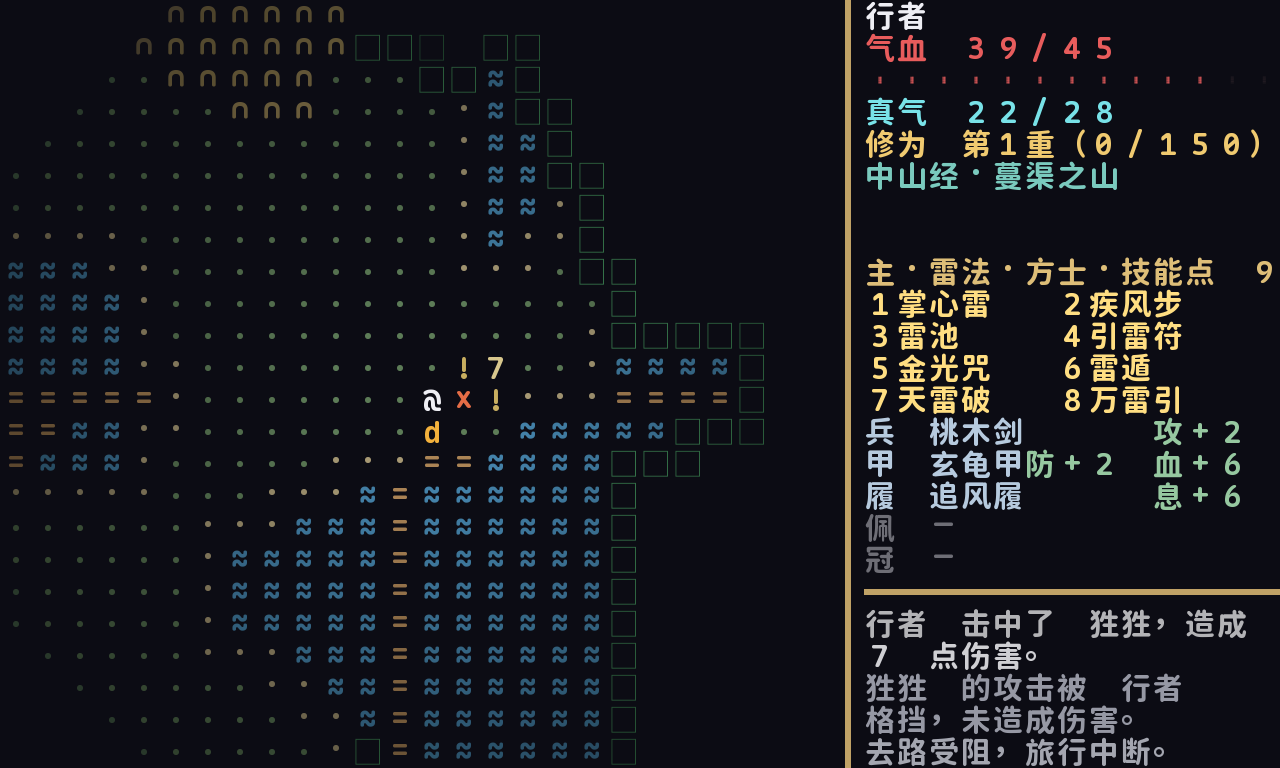
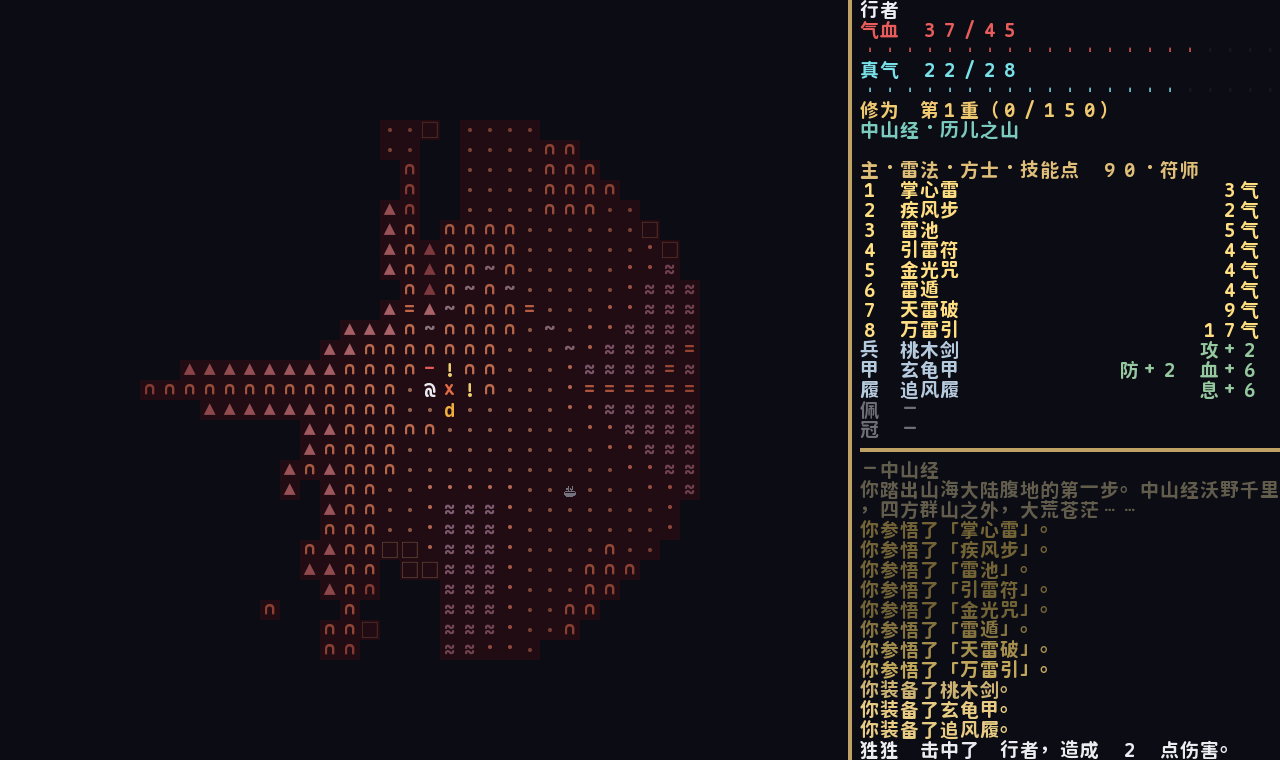
字号体系重构：统一小字多格（20/16/12px），信息栏容量大增
- 需求：信息栏字号小一些。PUA 同格小字形方案被否（tcod print 静默丢弃
  超 BMP 映射码点，中文映射后消失），按用户决策全局统一小字号
- MAP_PRESETS 32/24/18 → 20/16/12px；SIDEBAR 14/18/22 → 22/28/38 列
- 大档（默认）：地图视口 26×24 → 42×38；信息栏内容列 13→21（+62%）、
  日志 5→15 行；信息栏物理宽基本不变（448→440px）
- 紧凑档技能两列布局自然退役（三档行数均 >26 走完整档）
- 测试：布局断言更新，硬编码 console 尺寸/列区间动态化，163 全绿；
  截图 AI 视觉复核：统一 20px、信息栏四段完整
- 回滚 PUA 小字形全部改动（font_fallback/render/message_log/测试）

diff --git a/render.py b/render.py
@@ -214,6 +214,11 @@ def _skill_state_color(engine, skill: dict) -> Tuple[int, int, int]:
     return COLOR_SKILL_READY
 
 
+def _sprint(console, x, y, text, fg=None) -> None:
+    """侧栏打印（与 console.print 等价，保留作统一入口）。"""
+    console.print(x, y, text, fg=fg)
+
+
 def _render_sidebar(console: tcod.console.Console, engine: "Engine") -> None:
     theme = engine.content.theme
     strings = engine.content.strings
@@ -224,9 +229,9 @@ def _render_sidebar(console: tcod.console.Console, engine: "Engine") -> None:
 
     frame_color = tuple(theme["ui"]["frame"])
     for y in range(settings.total_rows):
-        console.print(settings.divider_col, y, "│", fg=frame_color)
+        _sprint(console, settings.divider_col, y, "│", fg=frame_color)
     for x in range(settings.content_x, console.width):
-        console.print(x, layout["divider"], "─", fg=frame_color)
+        _sprint(console, x, layout["divider"], "─", fg=frame_color)
 
     x = settings.content_x
     w = settings.content_w
@@ -234,28 +239,29 @@ def _render_sidebar(console: tcod.console.Console, engine: "Engine") -> None:
     level = player.level
 
     # 名字 + 职业页眉第一段
-    console.print(x, 0, player.name, fg=COLOR_NAME)
+    _sprint(console, x, 0, player.name, fg=COLOR_NAME)
 
     if fighter:
         hp_text = strings["hud_hp"].format(hp=fighter.hp, max_hp=fighter.max_hp)
-        console.print(x, 1, hp_text, fg=tuple(theme["hud"]["hp"]))
+        _sprint(console, x, 1, hp_text, fg=tuple(theme["hud"]["hp"]))
         filled = round(w * fighter.hp / fighter.max_hp)
-        console.print(x, 2, BAR_FILLED * filled, fg=tuple(theme["hud"]["hp"]))
-        console.print(x + filled, 2, BAR_EMPTY * (w - filled), fg=(70, 52, 56))
+        _sprint(console, x, 2, BAR_FILLED * filled, fg=tuple(theme["hud"]["hp"]))
+        _sprint(console, x + filled, 2, BAR_EMPTY * (w - filled), fg=(70, 52, 56))
 
         mp_text = strings["hud_mp"].format(mp=fighter.mp, max_mp=fighter.max_mp)
-        console.print(x, layout["mp_row"], mp_text, fg=(120, 226, 232))
+        _sprint(console, x, layout["mp_row"], mp_text, fg=(120, 226, 232))
         if layout["mp_bar"]:
             filled = round(w * fighter.mp / max(1, fighter.max_mp))
-            console.print(x, layout["mp_row"] + 1, BAR_FILLED * filled, fg=(120, 226, 232))
-            console.print(
-                x + filled, layout["mp_row"] + 1, BAR_EMPTY * (w - filled), fg=(50, 58, 66)
+            _sprint(console, x, layout["mp_row"] + 1, BAR_FILLED * filled, fg=(120, 226, 232))
+            _sprint(
+                console, x + filled, layout["mp_row"] + 1, BAR_EMPTY * (w - filled), fg=(50, 58, 66)
             )
     else:
-        console.print(x, 1, strings["hud_hp_dead"], fg=tuple(theme["hud"]["dead_tag"]))
+        _sprint(console, x, 1, strings["hud_hp_dead"], fg=tuple(theme["hud"]["dead_tag"]))
 
     if level:
-        console.print(
+        _sprint(
+            console,
             x,
             layout["level_row"],
             strings["hud_level"].format(
@@ -279,7 +285,8 @@ def _render_sidebar(console: tcod.console.Console, engine: "Engine") -> None:
         location = strings["hud_floor"].format(
             region=content.region_name("zhongshanjing"), mountain=""
         )
-    console.print(
+    _sprint(
+        console,
         x,
         layout["floor_row"],
         location,
@@ -332,8 +339,8 @@ def _render_hints(console, engine, strings, theme, layout) -> None:
     shown = hints[-2:]  # 最多两条：最新在下（hint_row），较早的在其上
     for i, (key, label) in enumerate(reversed(shown)):
         row = layout["hint_row"] - i
-        console.print(content_x, row, key, fg=(255, 226, 130))
-        console.print(content_x + 2, row, label, fg=hint_color)
+        _sprint(console, content_x, row, key, fg=(255, 226, 130))
+        _sprint(console, content_x + 2, row, label, fg=hint_color)
 
 
 def _render_skills(console, engine, layout) -> None:
@@ -353,7 +360,7 @@ def _render_skills(console, engine, layout) -> None:
     ].format(points=player.skill_points)
     if not layout["compact"]:
         header += f"·{content.class_name(other_id)}"
-    console.print(x, layout["skill_header"], header, fg=COLOR_HEADER)
+    _sprint(console, x, layout["skill_header"], header, fg=COLOR_HEADER)
 
     skills_list = content.skills_for_class(class_id)
     first = layout["skill_first"]
@@ -364,18 +371,18 @@ def _render_skills(console, engine, layout) -> None:
         if layout["skill_two_cols"]:
             row = first + i // 2
             col = x + (i % 2) * (engine.settings.content_w // 2)
-            console.print(col, row, f"{key}{name}", fg=color)
+            _sprint(console, col, row, f"{key}{name}", fg=color)
         else:
             row = first + i
             import skills as skills_module
 
             cost = skills_module.mp_cost(player, skill)
-            console.print(x, row, f"{key} {name}", fg=color)
+            _sprint(console, x, row, f"{key} {name}", fg=color)
             cost_text = strings["skill_mp_cost"].format(mp=cost)
             if skill["effect"].get("hp_cost"):
                 cost_text += f"-{skill['effect']['hp_cost']}"
-            console.print(
-                x + engine.settings.content_w - len(cost_text) - 1, row, cost_text, fg=color
+            _sprint(
+                console, x + engine.settings.content_w - len(cost_text) - 1, row, cost_text, fg=color
             )
 
 
@@ -392,13 +399,13 @@ def _render_equipment(console, engine, layout) -> None:
         slot_name = strings[f"slot_{slot}"]
         item = equipment.slots.get(slot)
         if item is None:
-            console.print(x, row, f"{slot_name} {strings['slot_empty']}", fg=COLOR_SKILL_LOCKED)
+            _sprint(console, x, row, f"{slot_name} {strings['slot_empty']}", fg=COLOR_SKILL_LOCKED)
             continue
         summary = _bonus_summary(strings, item)
-        console.print(x, row, f"{slot_name} {item.name}", fg=COLOR_EQUIP)
+        _sprint(console, x, row, f"{slot_name} {item.name}", fg=COLOR_EQUIP)
         if summary:
-            console.print(
-                x + engine.settings.content_w - len(summary) - 1, row, summary, fg=(150, 200, 160)
+            _sprint(
+                console, x + engine.settings.content_w - len(summary) - 1, row, summary, fg=(150, 200, 160)
             )
 
 

diff --git a/tests/test_combat_states.py b/tests/test_combat_states.py
@@ -285,6 +285,8 @@ def test_k_opens_learn_menu_and_learn_flow():
 
 
 def sidebar_text(console, engine, rows):
+    import render
+
     x = engine.settings.content_x
     return "".join(
         "".join(chr(c) for c in console.rgb[x:, y]["ch"] if c != 32) for y in rows
@@ -323,16 +325,16 @@ def test_sidebar_renders_skills_and_equipment():
     assert "桃木剑" in text
 
 
-def test_sidebar_compact_two_columns():
-    import render
-
+def test_sidebar_layout_full_mode_all_sizes():
+    """20/16/12px 字号体系：三档行数均走完整档（单列 8 技能），行账平衡。"""
     from settings import sidebar_layout
 
-    for map_size, expect_two in (("large", True), ("medium", False)):
+    for map_size in ("large", "medium", "small"):
         settings = Settings(map_size, "large")
         layout = sidebar_layout(settings.total_rows)
-        assert layout["skill_two_cols"] is expect_two
-        assert settings.log_height >= 5
+        assert layout["skill_two_cols"] is False, f"{map_size} 应为完整档单列"
+        assert layout["skill_count"] == 8
+        assert settings.log_height >= 5, f"{map_size} 日志 ≥5 行"
         assert layout["divider"] + settings.log_height + 1 == settings.total_rows
 
 

diff --git a/tests/test_regions.py b/tests/test_regions.py
@@ -136,12 +136,12 @@ def test_contextual_hints_render_world():
     player = engine.player
 
     content.build_item("lingzhi", engine.gamemap, player.x, player.y)  # 脚下放灵芝
-    console = tcod.console.Console(40, 24, order="F")
+    console = tcod.console.Console(engine.settings.total_cols, engine.settings.total_rows, order="F")
     render.render_all(console, engine)
 
     texts = []
     for y in (6, 7):
-        line = "".join(chr(c) for c in console.rgb[27:40, y]["ch"] if c != 32)
+        line = "".join(chr(c) for c in console.rgb[engine.settings.content_x:, y]["ch"] if c != 32)
         texts.append(line)
     joined = "".join(texts)
     assert "G" in joined and "拾取" in joined.replace(" ", "")
@@ -152,7 +152,7 @@ def test_contextual_hints_render_world():
             engine.gamemap.entities.discard(existing)
     render.render_all(console, engine)
     joined = "".join(
-        "".join(chr(c) for c in console.rgb[27:40, y]["ch"] if c != 32) for y in (6, 7)
+        "".join(chr(c) for c in console.rgb[engine.settings.content_x:, y]["ch"] if c != 32) for y in (6, 7)
     )
     assert "拾取" not in joined.replace(" ", "")
     # 大世界没有山径提示

diff --git a/settings.py b/settings.py
@@ -2,7 +2,8 @@
 
 受 tcod 单窗口统一字格约束，"画面"档同时决定字号与总格数（窗口像素
 基本不变，格数与字号成反比）；"信息板"档决定信息板占的列数（地图相应
-让列）。语言 None = 跟随系统检测。全部持久化到 settings.json。
+让列，列数随小字号档位加宽以容纳更多内容）。语言 None = 跟随系统检测。
+全部持久化到 settings.json。
 """
 
 from __future__ import annotations
@@ -15,10 +16,10 @@ SETTINGS_FILE = Path("settings.json")
 WINDOW_PIXELS = (1280, 768)
 SIZE_ORDER = ("large", "medium", "small")
 
-# 画面档：字格边长 px（窗口像素 1280x768 下的等比档位）
-MAP_PRESETS = {"large": 32, "medium": 24, "small": 18}
-# 信息板档：占列数（含分隔线）
-SIDEBAR_PRESETS = {"large": 14, "medium": 18, "small": 22}
+# 画面档：字格边长 px（窗口像素 1280x768 下的等比档位；统一小字多格）
+MAP_PRESETS = {"large": 20, "medium": 16, "small": 12}
+# 信息板档：占列数（含分隔线；小字号下列数加宽，物理宽度大体相当）
+SIDEBAR_PRESETS = {"large": 22, "medium": 28, "small": 38}
 
 MIN_MAP_COLS = 16
 

diff --git a/tests/test_settings.py b/tests/test_settings.py
@@ -16,13 +16,13 @@ from settings import MAP_PRESETS, SIDEBAR_PRESETS, Settings  # noqa: E402
 def test_large_is_default_and_matches_current_layout():
     s = Settings()
     assert (s.map_size, s.sidebar_size) == ("large", "large")
-    assert s.tile_size == 32
-    assert s.total_cols == 40 and s.total_rows == 24
-    assert s.divider_col == 26
-    assert s.content_x == 27 and s.content_w == 13
-    assert s.map_cols == 26 and s.map_rows == 24
-    assert s.divider_row == 18  # 紧凑档：技能两列 + 装备五槽
-    assert s.log_height == 5  # 文档要求：日志 ≥5 行
+    assert s.tile_size == 20
+    assert s.total_cols == 64 and s.total_rows == 38
+    assert s.divider_col == 42
+    assert s.content_x == 43 and s.content_w == 21
+    assert s.map_cols == 42 and s.map_rows == 38
+    assert s.divider_row == 22  # 完整档
+    assert s.log_height == 15  # 日志 ≥5 行
 
 
 def test_all_preset_combinations_derive_consistently():

diff --git a/tests/test_effects.py b/tests/test_effects.py
@@ -88,8 +88,11 @@ def test_effects_render_headless():
     fx.spawn_heal(6, 6, 8)
     fx.spawn_level_up(7, 7)
     fx.spawn_notice(8, 8)
-    console = tcod.console.Console(40, 24, order="F")
-    fx.render(console, 26, 24)
+    from settings import Settings
+
+    settings = Settings()
+    console = tcod.console.Console(settings.total_cols, settings.total_rows, order="F")
+    fx.render(console, settings.map_cols, settings.map_rows)
 
 
 def test_engine_has_effects_and_combat_triggers():

diff --git a/tests/test_visual.py b/tests/test_visual.py
@@ -108,7 +108,7 @@ def test_render_all_headless():
 
     content = load_content()
     engine = Engine(content, Settings())
-    console = tcod.console.Console(40, 24, order="F")
+    console = tcod.console.Console(engine.settings.total_cols, engine.settings.total_rows, order="F")
     render.render_all(console, engine)
     ch = console.rgb[:26, :22]["ch"]
     assert (ch != 32).any()  # 地图区有内容
